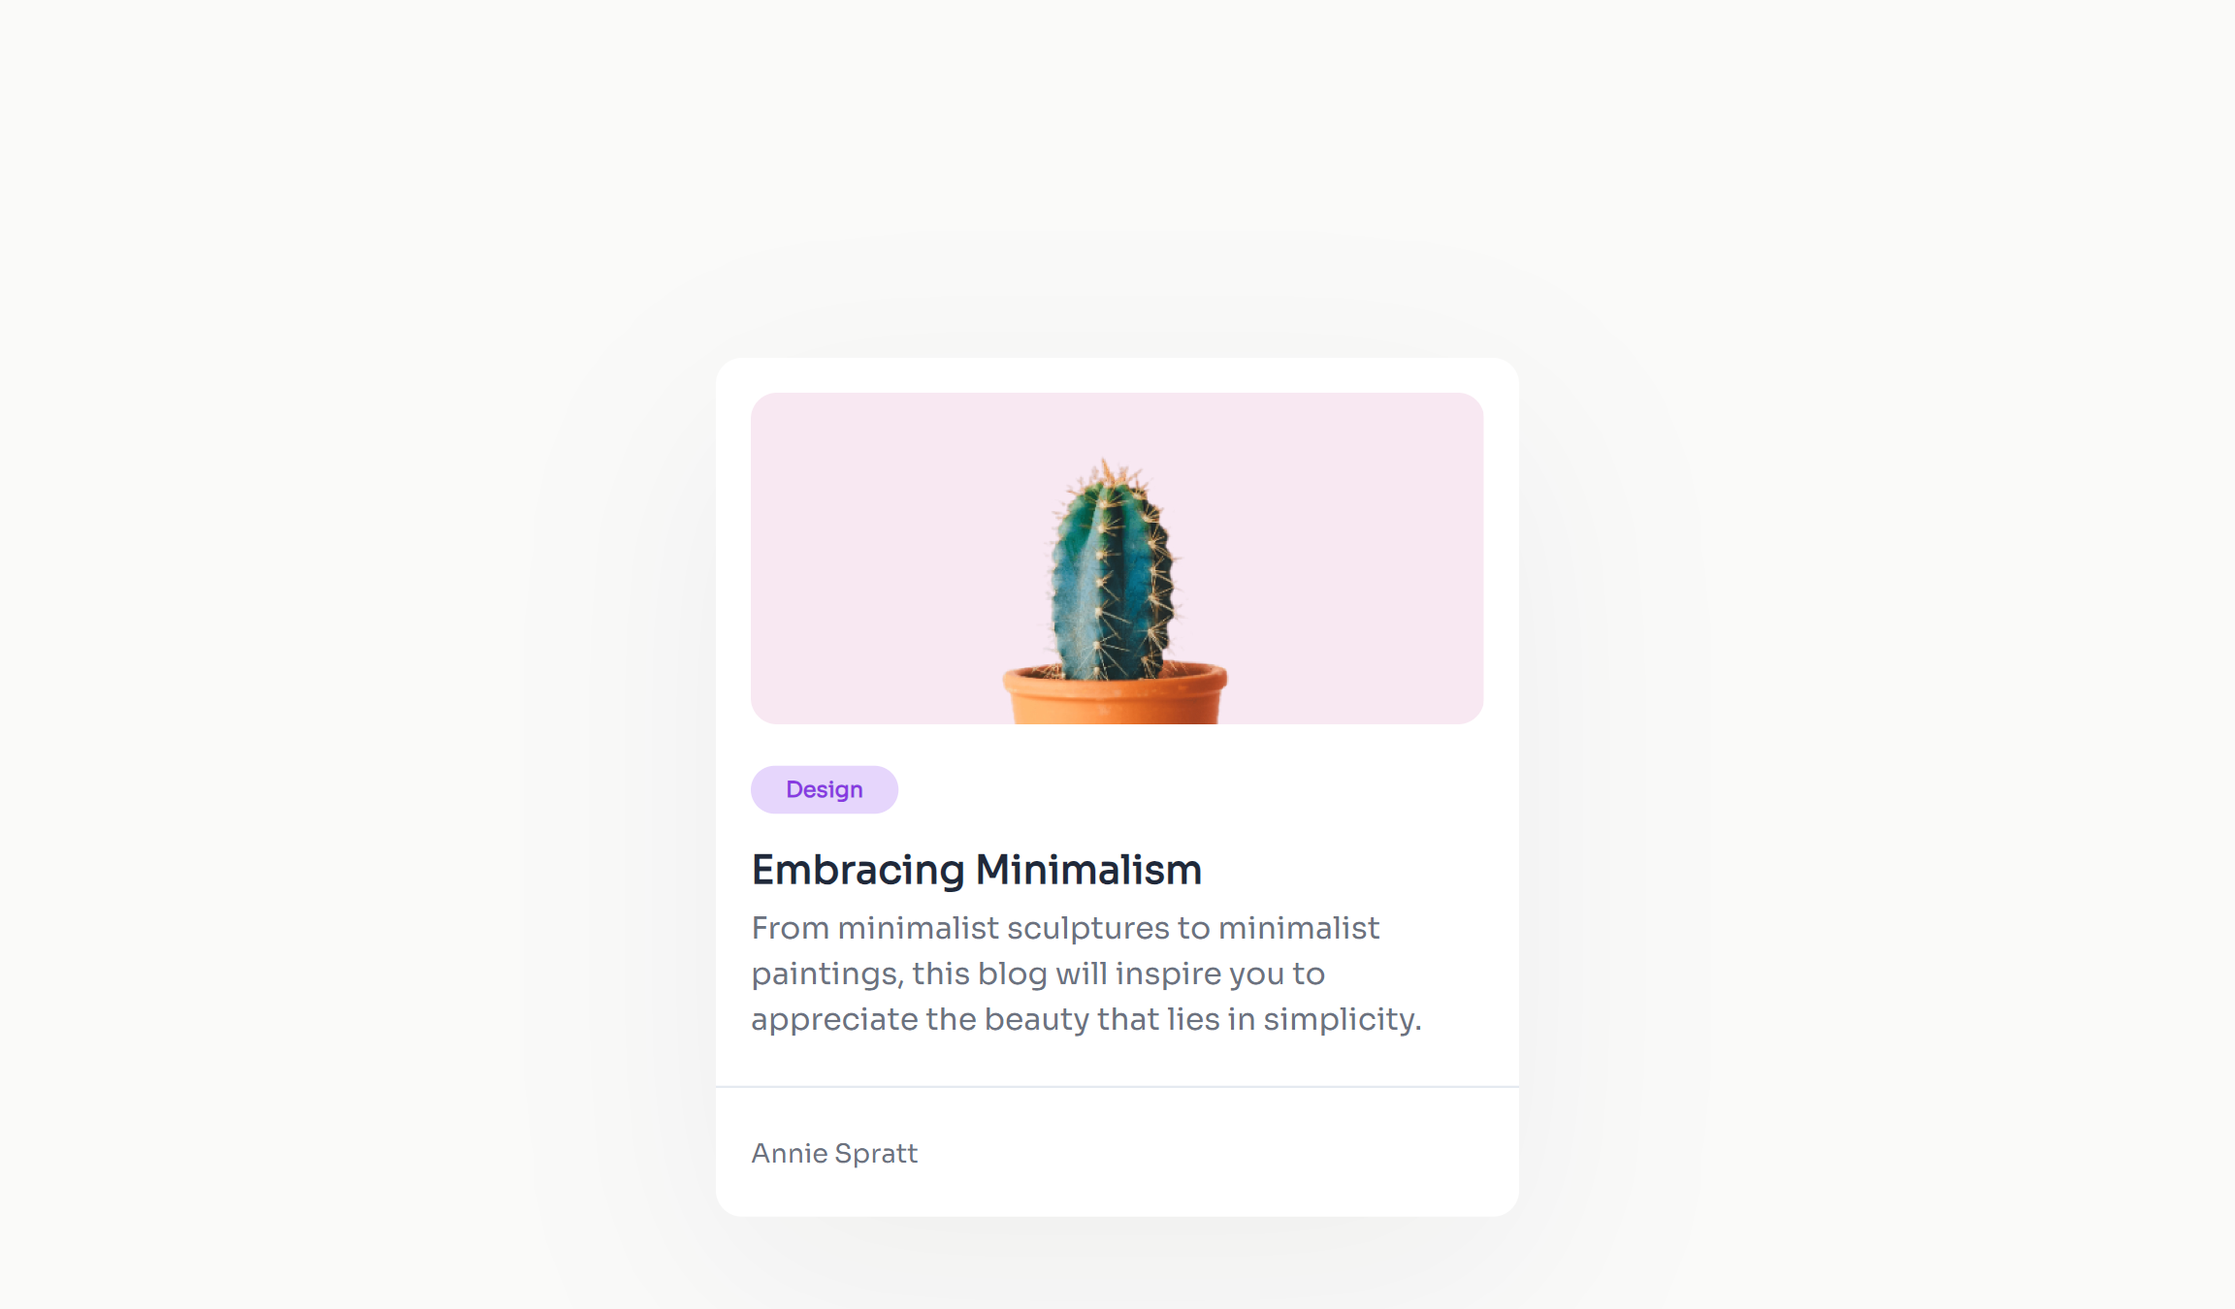
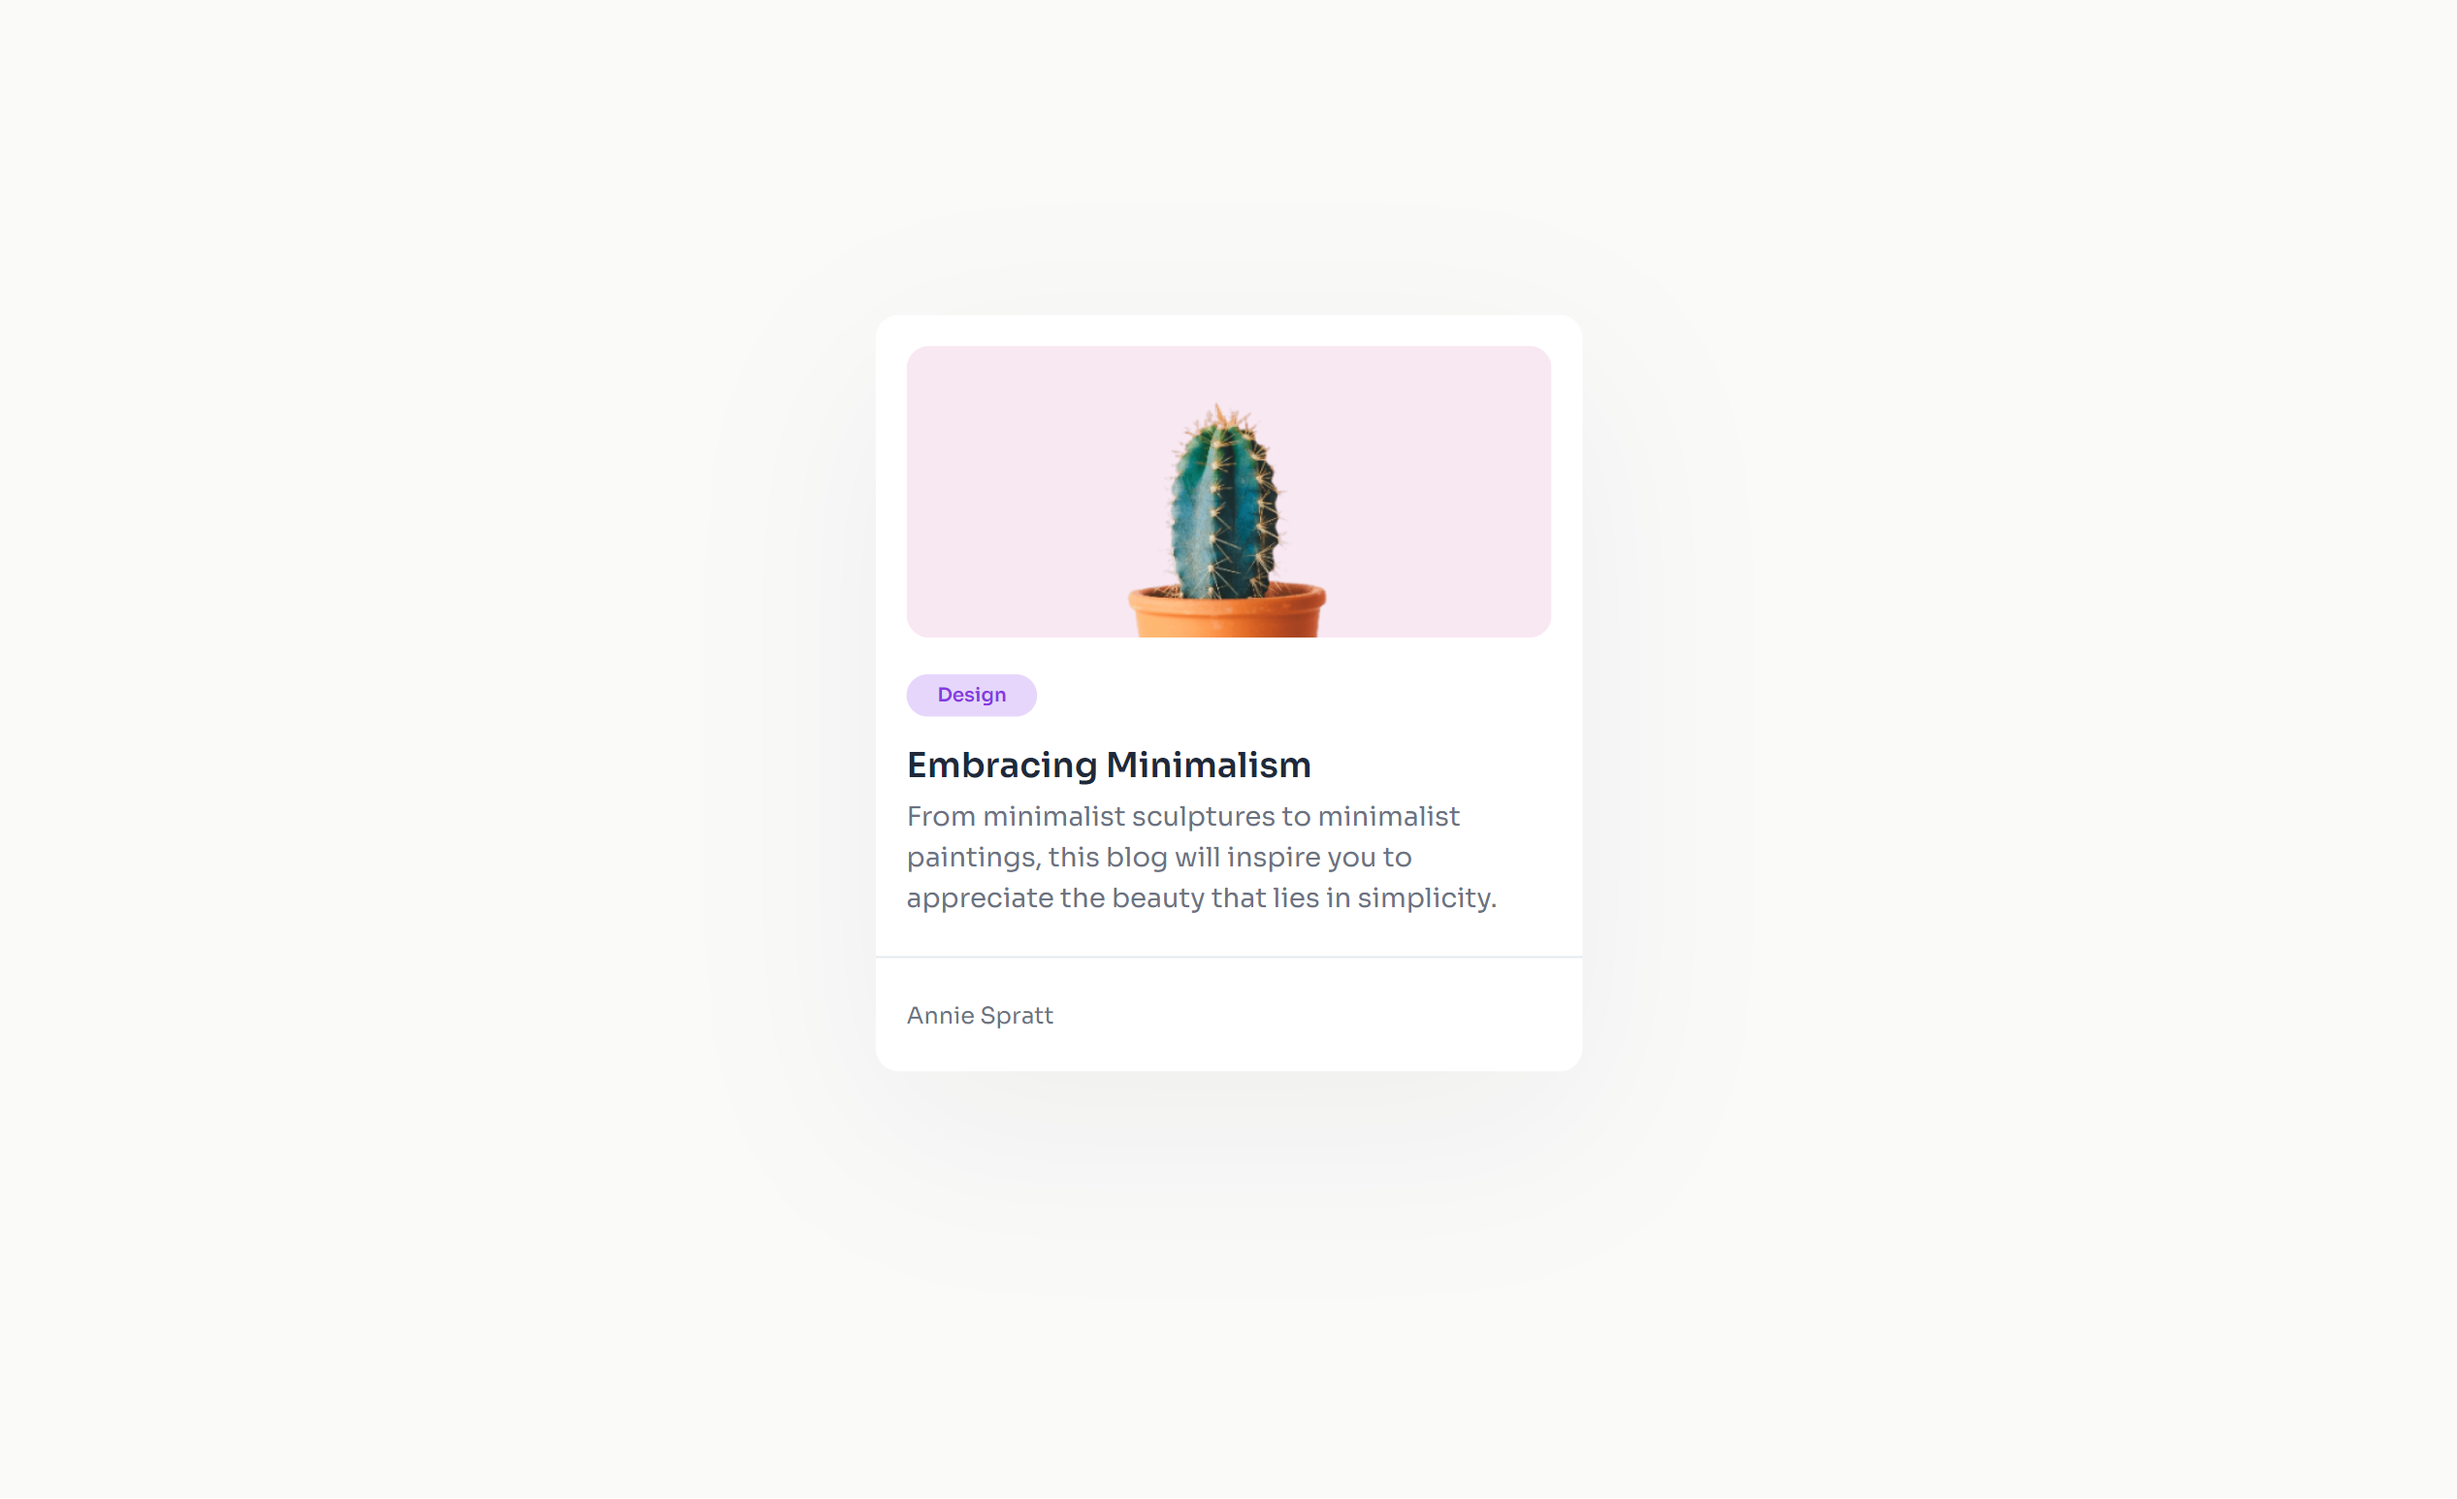
misc: スクショ更新（フォントの微妙な違い）(#11)

diff --git a/README.md b/README.md
@@ -47,7 +47,7 @@
 
 ### Mobile
 
-<img src="/screenshots/mobile.png" alt="overview - mobile" width="35%">
+<img src="./screenshots/mobile.png" alt="overview - mobile" width="50%">
 
 ### Built With
 
